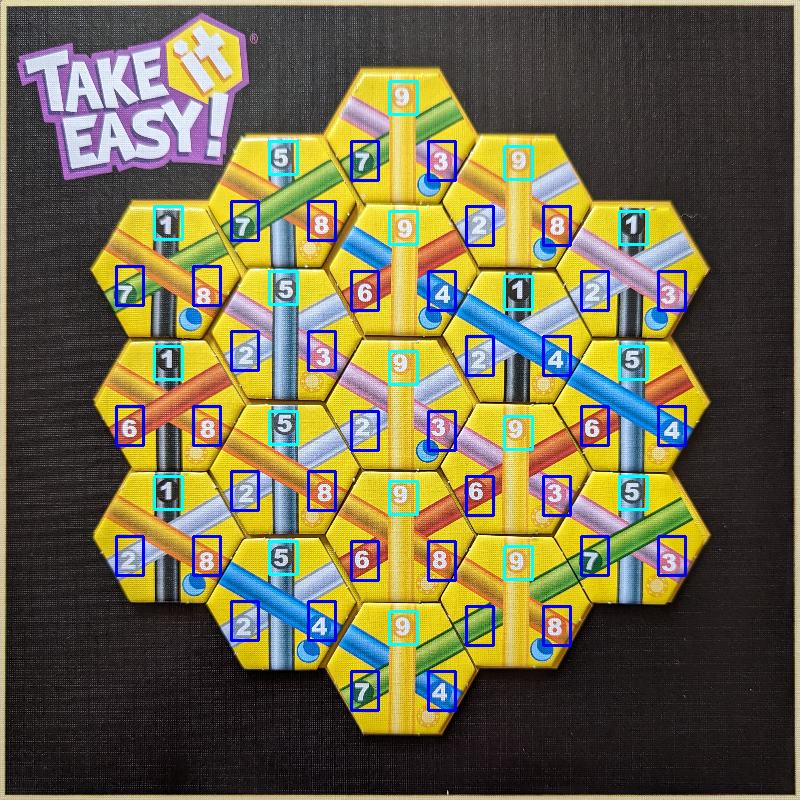
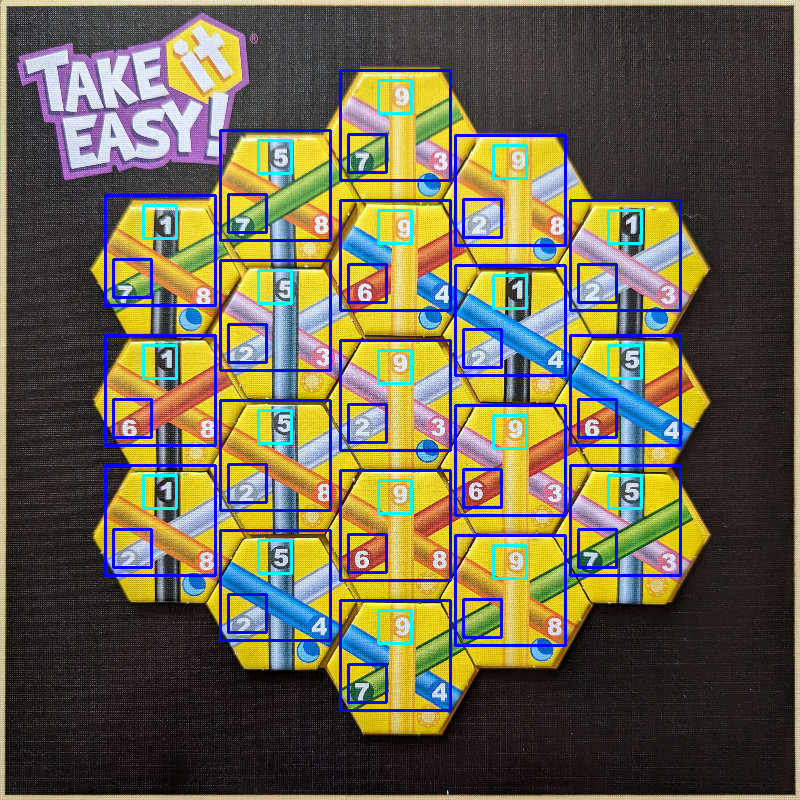
rename locations

Changed region(s): [[0.125, 0.0625, 0.875, 0.9062], [0.8125, 0.5938, 0.875, 0.7188], [0.8125, 0.25, 0.875, 0.4062]]

diff --git a/TakeITEasy/tess.py b/TakeITEasy/tess.py
@@ -67,7 +67,7 @@ coors = [[None    ,None     ,[340,70] ,[455,135],[570,200]],
         [[105,335],[220,400],[340,470],[455,535],None     ],
         [[105,465],[220,530],[340,600],None     ,None     ]]
 
-size = [55,55]
+size = [30,30]
 """coors = [[None    ,None     ,[377,85] ,None     ,None     ],  
         [ None    ,[220,140],[377,215],[460,140],None     ],
         [[100,200],[220,280],[377,355],[460,280],[580,200]],
@@ -80,15 +80,20 @@ for lines in coors:
   j=0
   for coor in lines:
     if coor is not None:
-      #print(coor)
-    #cv.rectangle(temp,coor, np.sum([coor,size],axis=0), (0,0,255), thickness=2)
-      part = np.divide((size),(100,100))
-      cv.rectangle(temp,(int(coor[0]+(part[0]*90)),int(coor[1]+part[1]*20)),(int(coor[0]+(part[0]*140)),int(coor[1]+part[1]*80)), (255,255,0), thickness=2)#top
-      cv.rectangle(temp,(int(coor[0]+(part[0]*20)),int(coor[1]+part[1]*130)),(int(coor[0]+(part[0]*70)),int(coor[1]+part[1]*200)), (255,0,0), thickness=2)#left
-      cv.rectangle(temp,(int(coor[0]+(part[0]*160)),int(coor[1]+part[1]*130)),(int(coor[0]+(part[0]*210)),int(coor[1]+part[1]*200)), (255,0,0), thickness=2)#right
-      coors[i][j] = [(int(coor[0]+(part[0]*90)),int(coor[1]+part[1]*20),int(coor[0]+(part[0]*140)),int(coor[1]+part[1]*80)),
-                     (int(coor[0]+(part[0]*20)),int(coor[1]+part[1]*130),int(coor[0]+(part[0]*70)),int(coor[1]+part[1]*200)),
-                     (int(coor[0]+(part[0]*160)),int(coor[1]+part[1]*130),int(coor[0]+(part[0]*210)),int(coor[1]+part[1]*200))]
+			#print(coor)
+			#cv.rectangle(temp,coor, np.sum([coor,size],axis=0), (0,0,255), thickness=2)
+      part = [80,80]
+      part = np.divide((part),(100,100))
+      rect0 = [int(coor[0]+(part[0]*0)),int(coor[1]+(part[1]*0)),int(coor[0]+(part[0]*100)+size[0]),int(coor[1]+part[1]*100+size[1])]
+      rect1 = [int(coor[0]+(part[0]*48)),int(coor[1]+(part[1]*13)),int(coor[0]+(part[0]*52)+size[0]),int(coor[1]+part[1]*17+size[1])]
+      rect2 = [int(coor[0]+(part[0]*10)),int(coor[1]+(part[1]*80)),int(coor[0]+(part[0]*20)+size[0]),int(coor[1]+part[1]*90+size[1])]
+      rect3 = [int(coor[0]+(part[0]*0)),int(coor[1]+(part[1]*0)),int(coor[0]+(part[0]*100)+size[0]),int(coor[1]+part[1]*100+size[1])]
+      
+      cv.rectangle(temp,(rect0[0],rect0[1]),(rect0[2],rect0[3]),(0,255,255), thickness=2)#top
+      cv.rectangle(temp,(rect1[0],rect1[1]),(rect1[2],rect1[3]),(255,255,0), thickness=2)#top
+      cv.rectangle(temp,(rect2[0],rect2[1]),(rect2[2],rect2[3]), (255,0,0), thickness=2)#left
+      cv.rectangle(temp,(rect3[0],rect3[1]),(rect3[2],rect3[3]), (255,0,0), thickness=2)#right
+      coors[i][j] = [rect1,rect2,rect3]
     j += 1
   i += 1
 affiche(temp)
